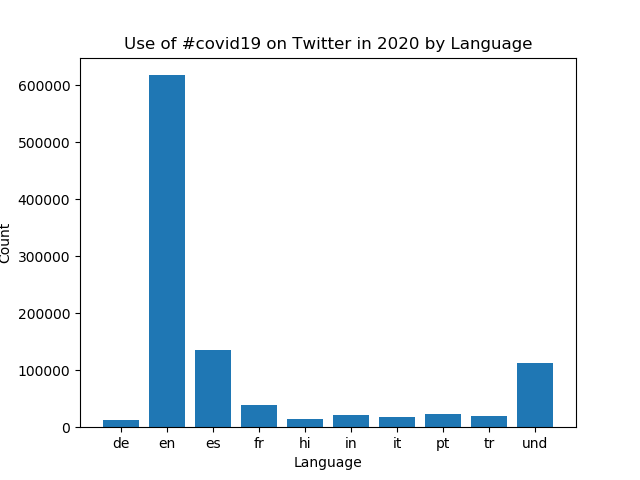
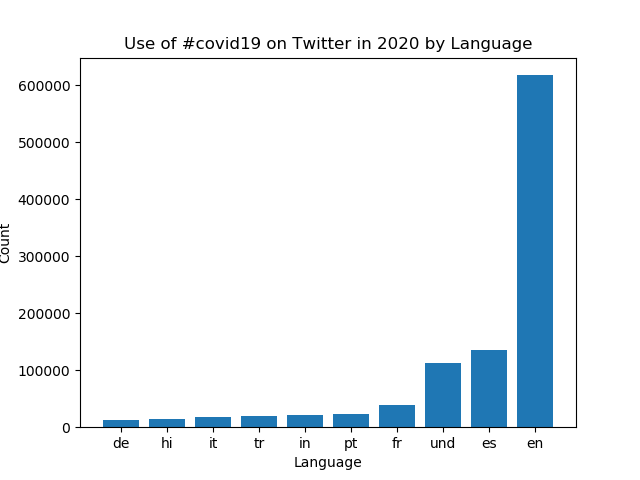
mpl 13

diff --git a/src/visualize.py b/src/visualize.py
@@ -32,14 +32,15 @@ for k,v in items:
     print(k,':',v)
 
 # create lists of keys and values for the bar graph
-top_items = sorted(items[:10], key=lambda item: item[1], reverse=True)
+top_items = items[:10] 
 keys = [item[0] for item in top_items]
 values = [item[1] for item in top_items]
 keys = keys[::-1]
 values = values[::-1]
 
 # plot the bar graph
-plt.bar(keys, values)
+plt.bar(range(len(keys)), values)
+plt.xticks(range(len(keys)), keys)
 
 # set the title and axis labels
 if args.input_path[-1] == 'g':
